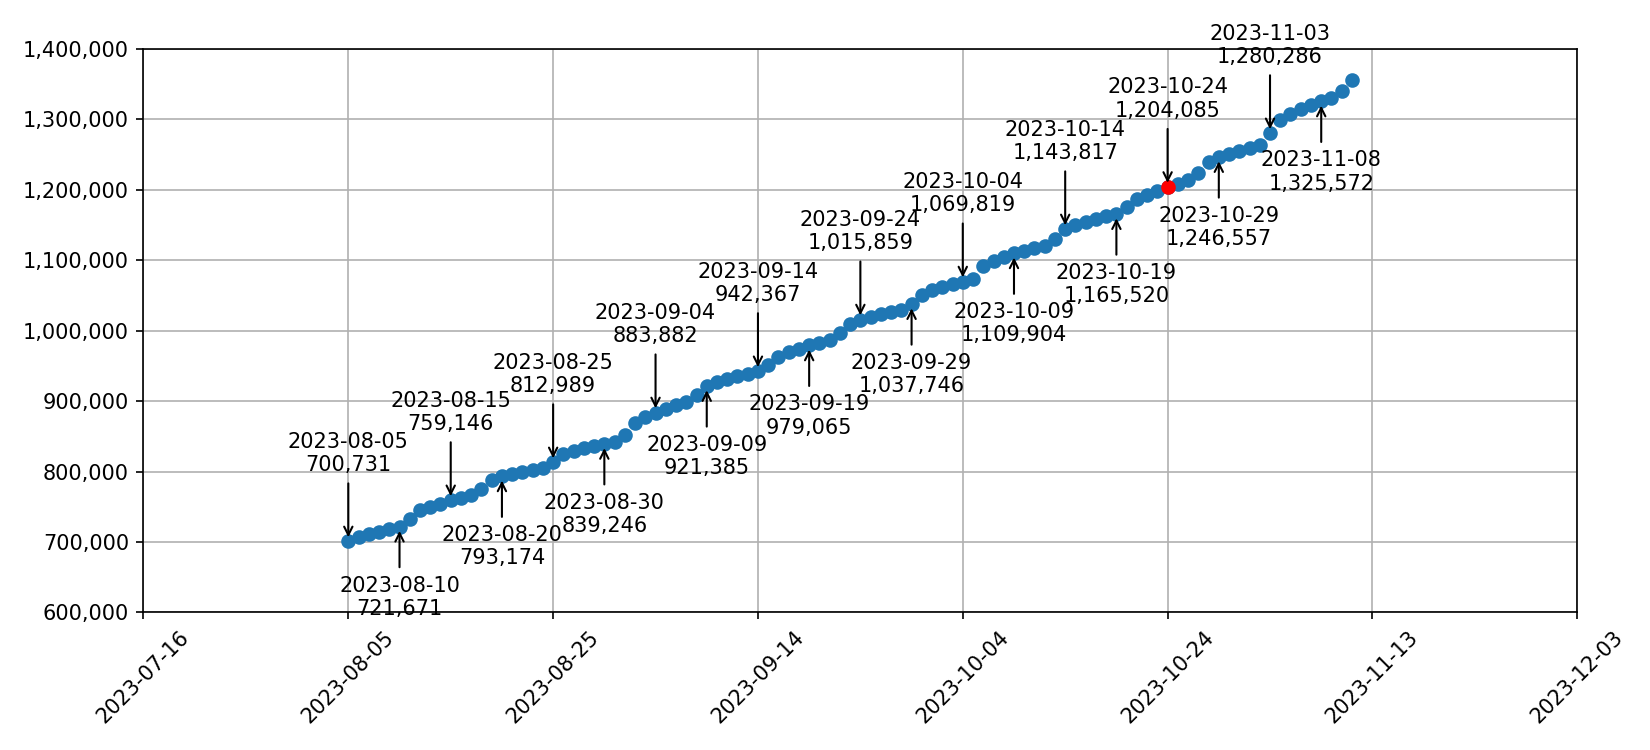
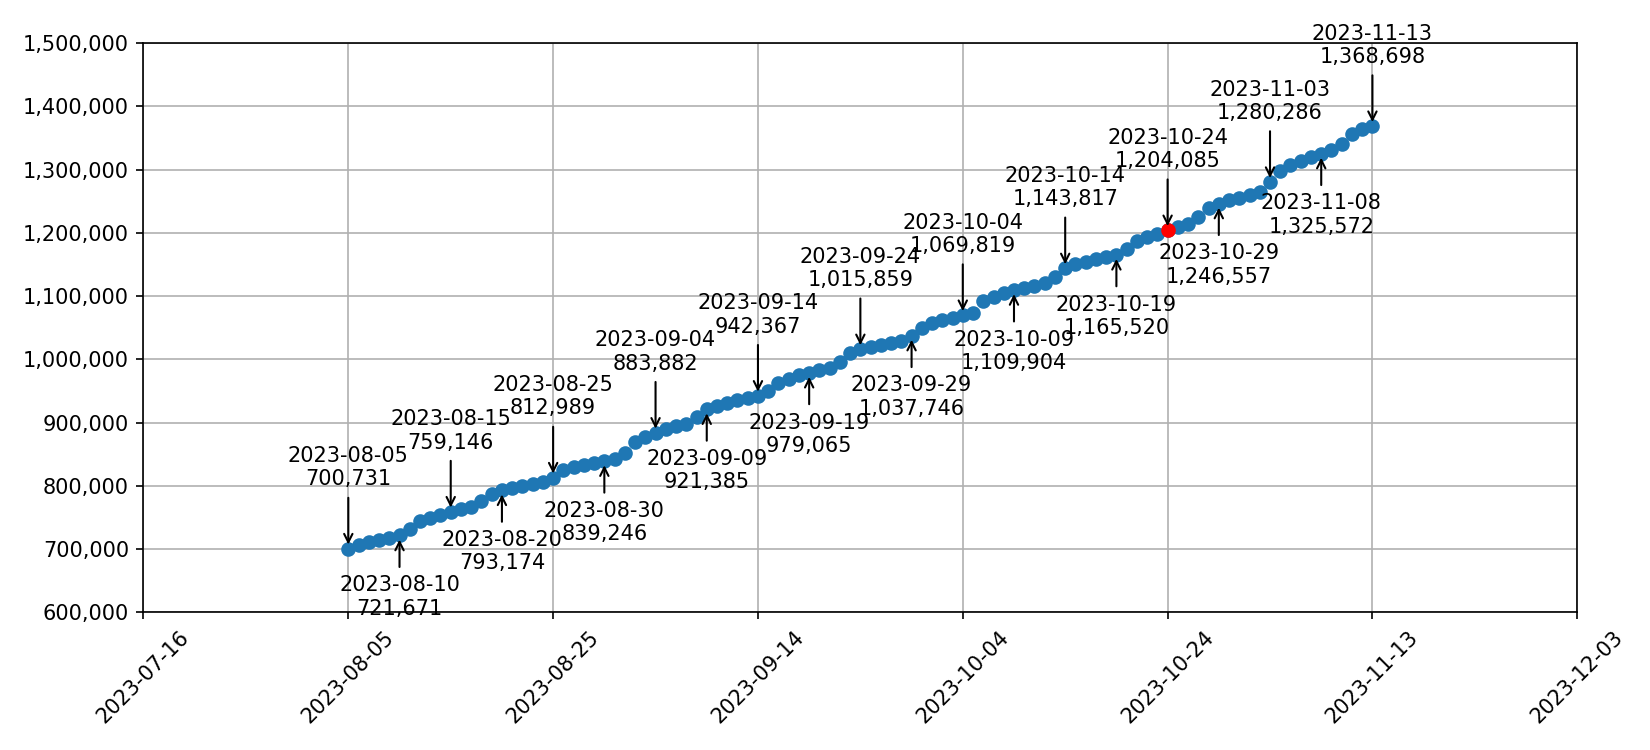
Update prediction

diff --git a/src/lib/prediction.py b/src/lib/prediction.py
@@ -25,7 +25,7 @@ predictor = goal
 prediction = line_fitter.predict([[goal]])
 
 plt.figure(figsize=(11, 5))
-plt.ylim(600000, 1400000)  # y축 범위
+plt.ylim(600000, 1500000)  # y축 범위
 plt.plot(X, y, "o")  # 기록 데이터
 for i in successedDate:
     plt.plot(X[i], y[i], "o", color="red")  # 성공 데이터
